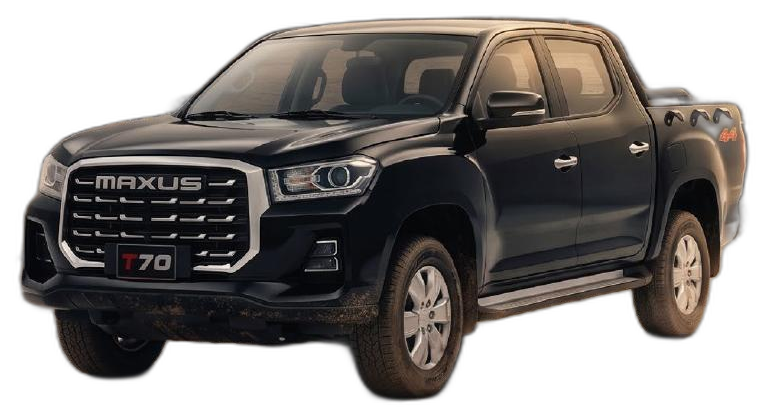
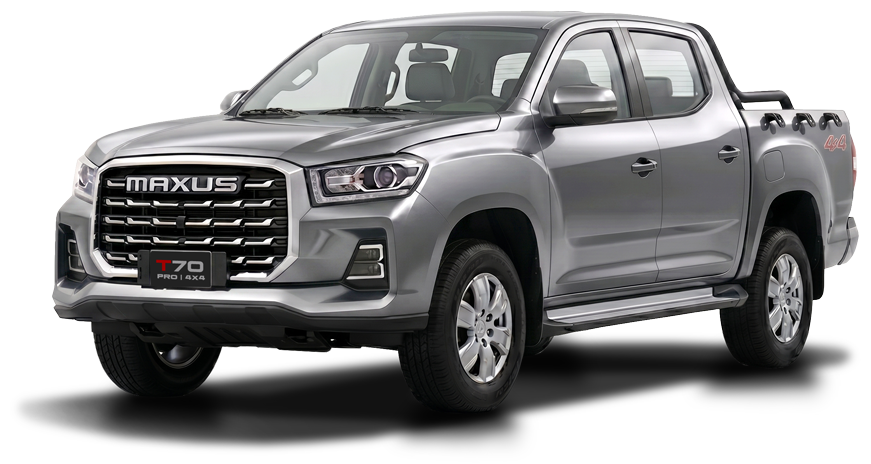
Cleaner Maxus hero cutouts + let transparent PNGs letterbox (no side-chop)
Feedback fixes on the initial catalog import:

Image swaps
- maxus-t70-pro-4x2: use MAXUS-T70-PRO-PLATA.png from maxusve.com
  (silver studio shot, native transparent PNG, 871x464). Drops the
  amber golden-hour tint the catalog hero had.
- maxus-t70-pro-4x4: use MAXUS-T70-PRO-NEGRO.png from maxusve.com
  (black studio shot, native transparent PNG, 871x464). Replaces the
  small pixelated features-page crop we had before.
- maxus-t60-sc: re-cut from catalog features page (p-04) — gray truck
  on blue diagonal panel, empty flatbed (dropping the fruit-basket
  photo from the hero page p-03).
- maxus-t60-dc-4x4: re-cut from features page (p-10) — no driver
  visible through the windshield (the hero page p-09 had a person in
  the driver seat).
- maxus-s80-diesel: re-cut from features page (p-26) — clean empty
  flatbed (the hero page p-25 had a cardboard cargo load that rembg
  couldn't segment cleanly).
- maxus-s80-gasolina: re-cut from features page (p-29), matching S80
  diesel crop.

CSS
- .card__img img and .model-hero__media img: object-fit: cover ->
  contain. The transparent PNG heroes are wider than the 16:10 card
  and the 4:3 detail hero, so cover was clipping ~12% off each side
  on the card and ~18% on the detail page (worst on MG 5, MG GT,
  Cyberster and RX9 — all around 2:1 aspect). contain letterboxes
  the whole car on the card's own dark bg — the transparent
  background is the letterbox.

diff --git a/static/css/holly.css b/static/css/holly.css
@@ -524,7 +524,9 @@ a.promo-feature__inner:hover {
 .card:hover { transform: translateY(-3px); border-color: var(--c-crimson); box-shadow: var(--shadow-card); }
 .card.is-hidden { display: none; }
 .card__img { aspect-ratio: 16 / 10; background: #0e0e12; position: relative; overflow: hidden; }
-.card__img img { width: 100%; height: 100%; object-fit: cover; transition: transform .3s; }
+/* object-fit: contain letterboxes the transparent-PNG hero on the card's own
+   dark bg — no side-chopping when the car is wider than 16:10. */
+.card__img img { width: 100%; height: 100%; object-fit: contain; transition: transform .3s; }
 .card:hover .card__img img { transform: scale(1.04); }
 .card__placeholder {
   position: absolute; inset: 0; display: grid; place-items: center;
@@ -968,7 +970,9 @@ input:focus, textarea:focus, select:focus { outline: 2px solid var(--c-crimson);
   border: 1px solid var(--c-line);
   border-radius: var(--r-md); overflow: hidden;
 }
-.model-hero__media img { width: 100%; height: 100%; object-fit: cover; display: block; }
+/* contain, not cover — the model detail hero uses the same transparent PNG
+   as the card and would clip ~18% off each side of a wide car at 4:3. */
+.model-hero__media img { width: 100%; height: 100%; object-fit: contain; display: block; }
 .model-hero__promo {
   position: absolute; top: .9rem; right: .9rem;
   background: var(--c-crimson); color: white;
